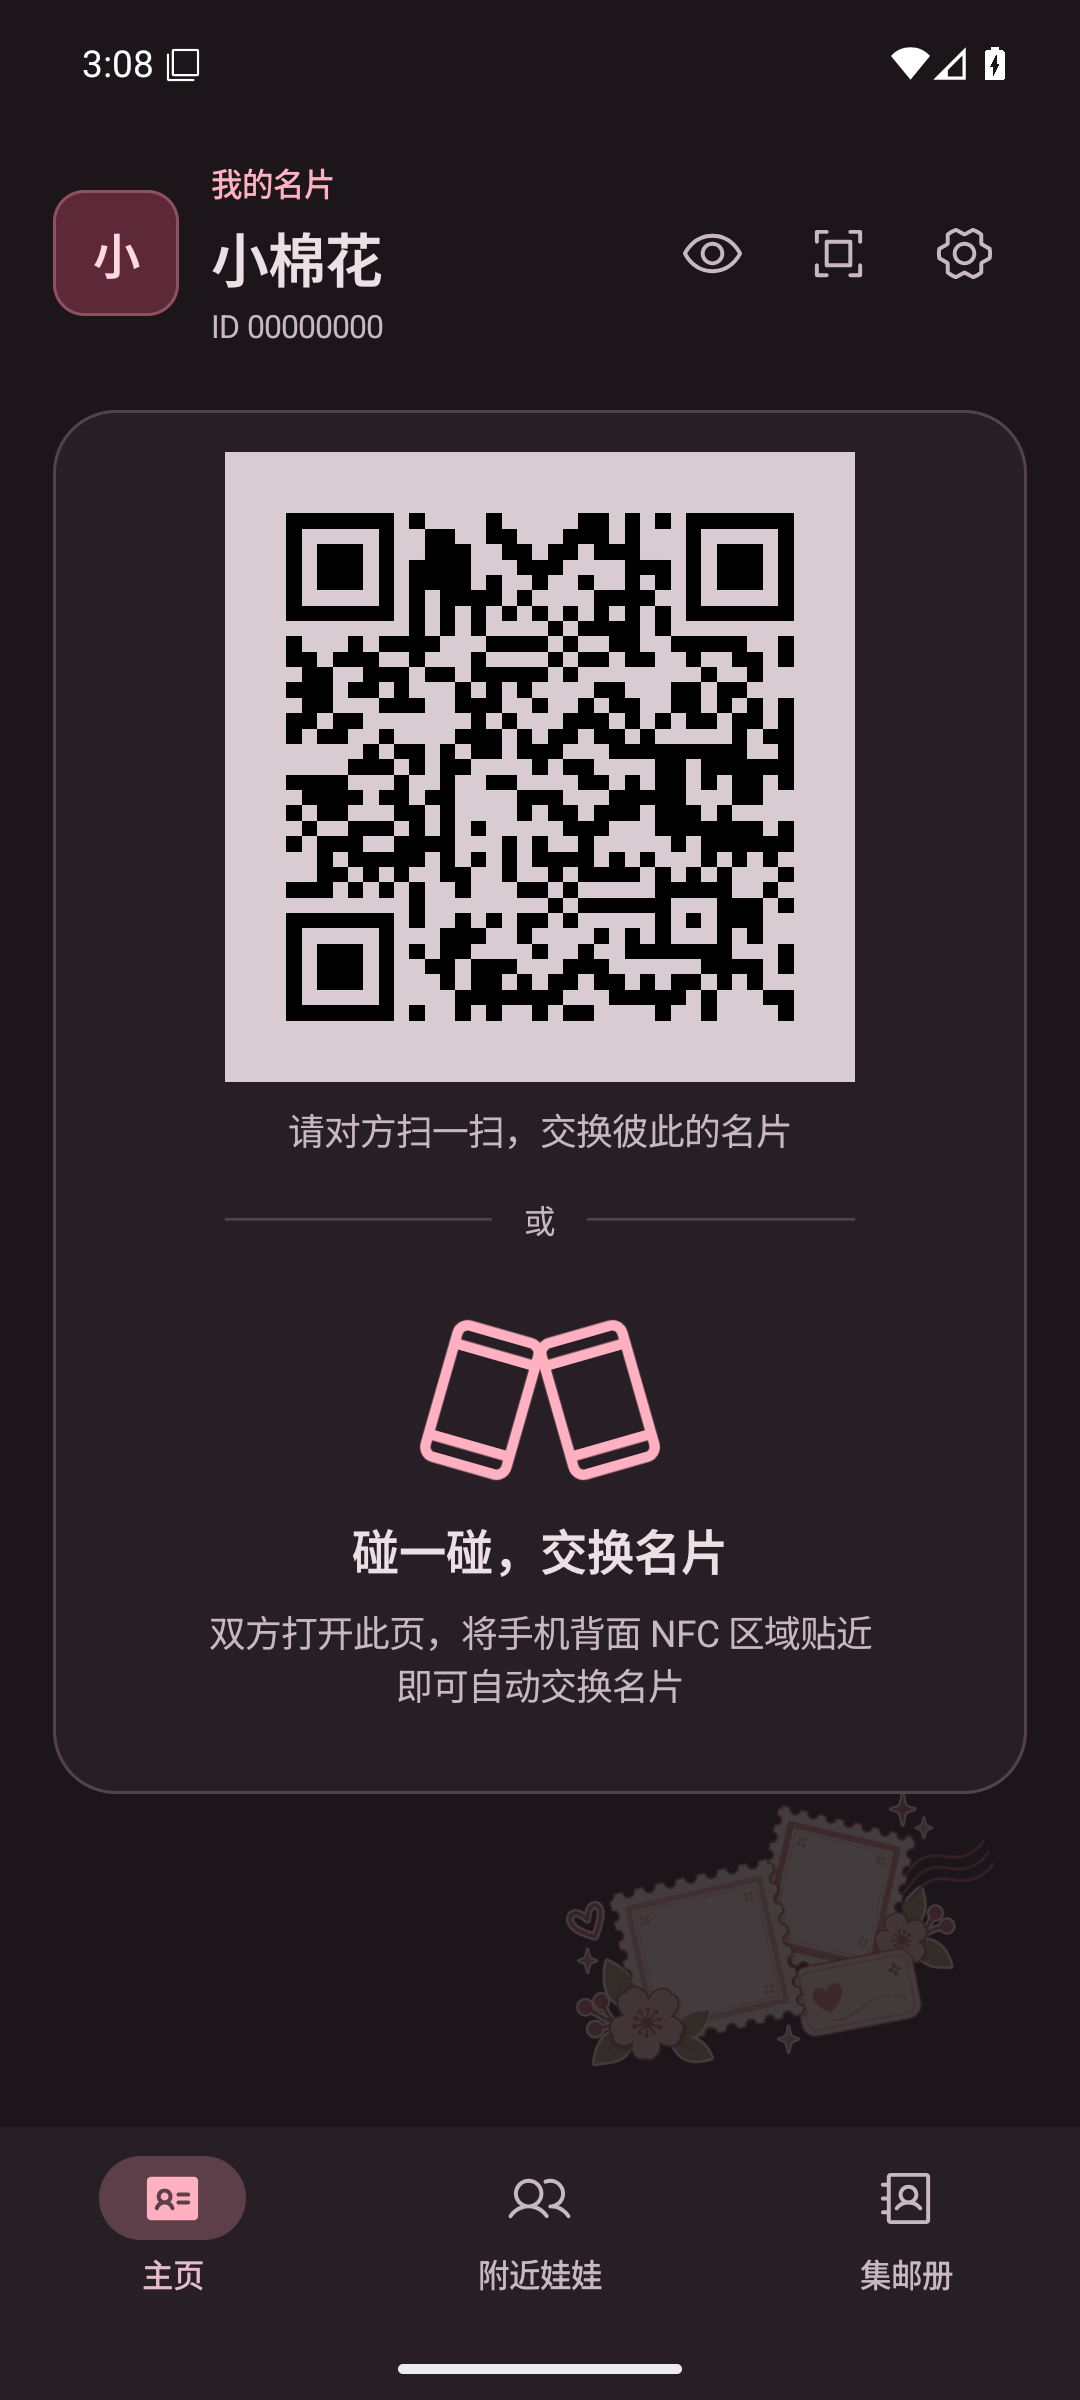
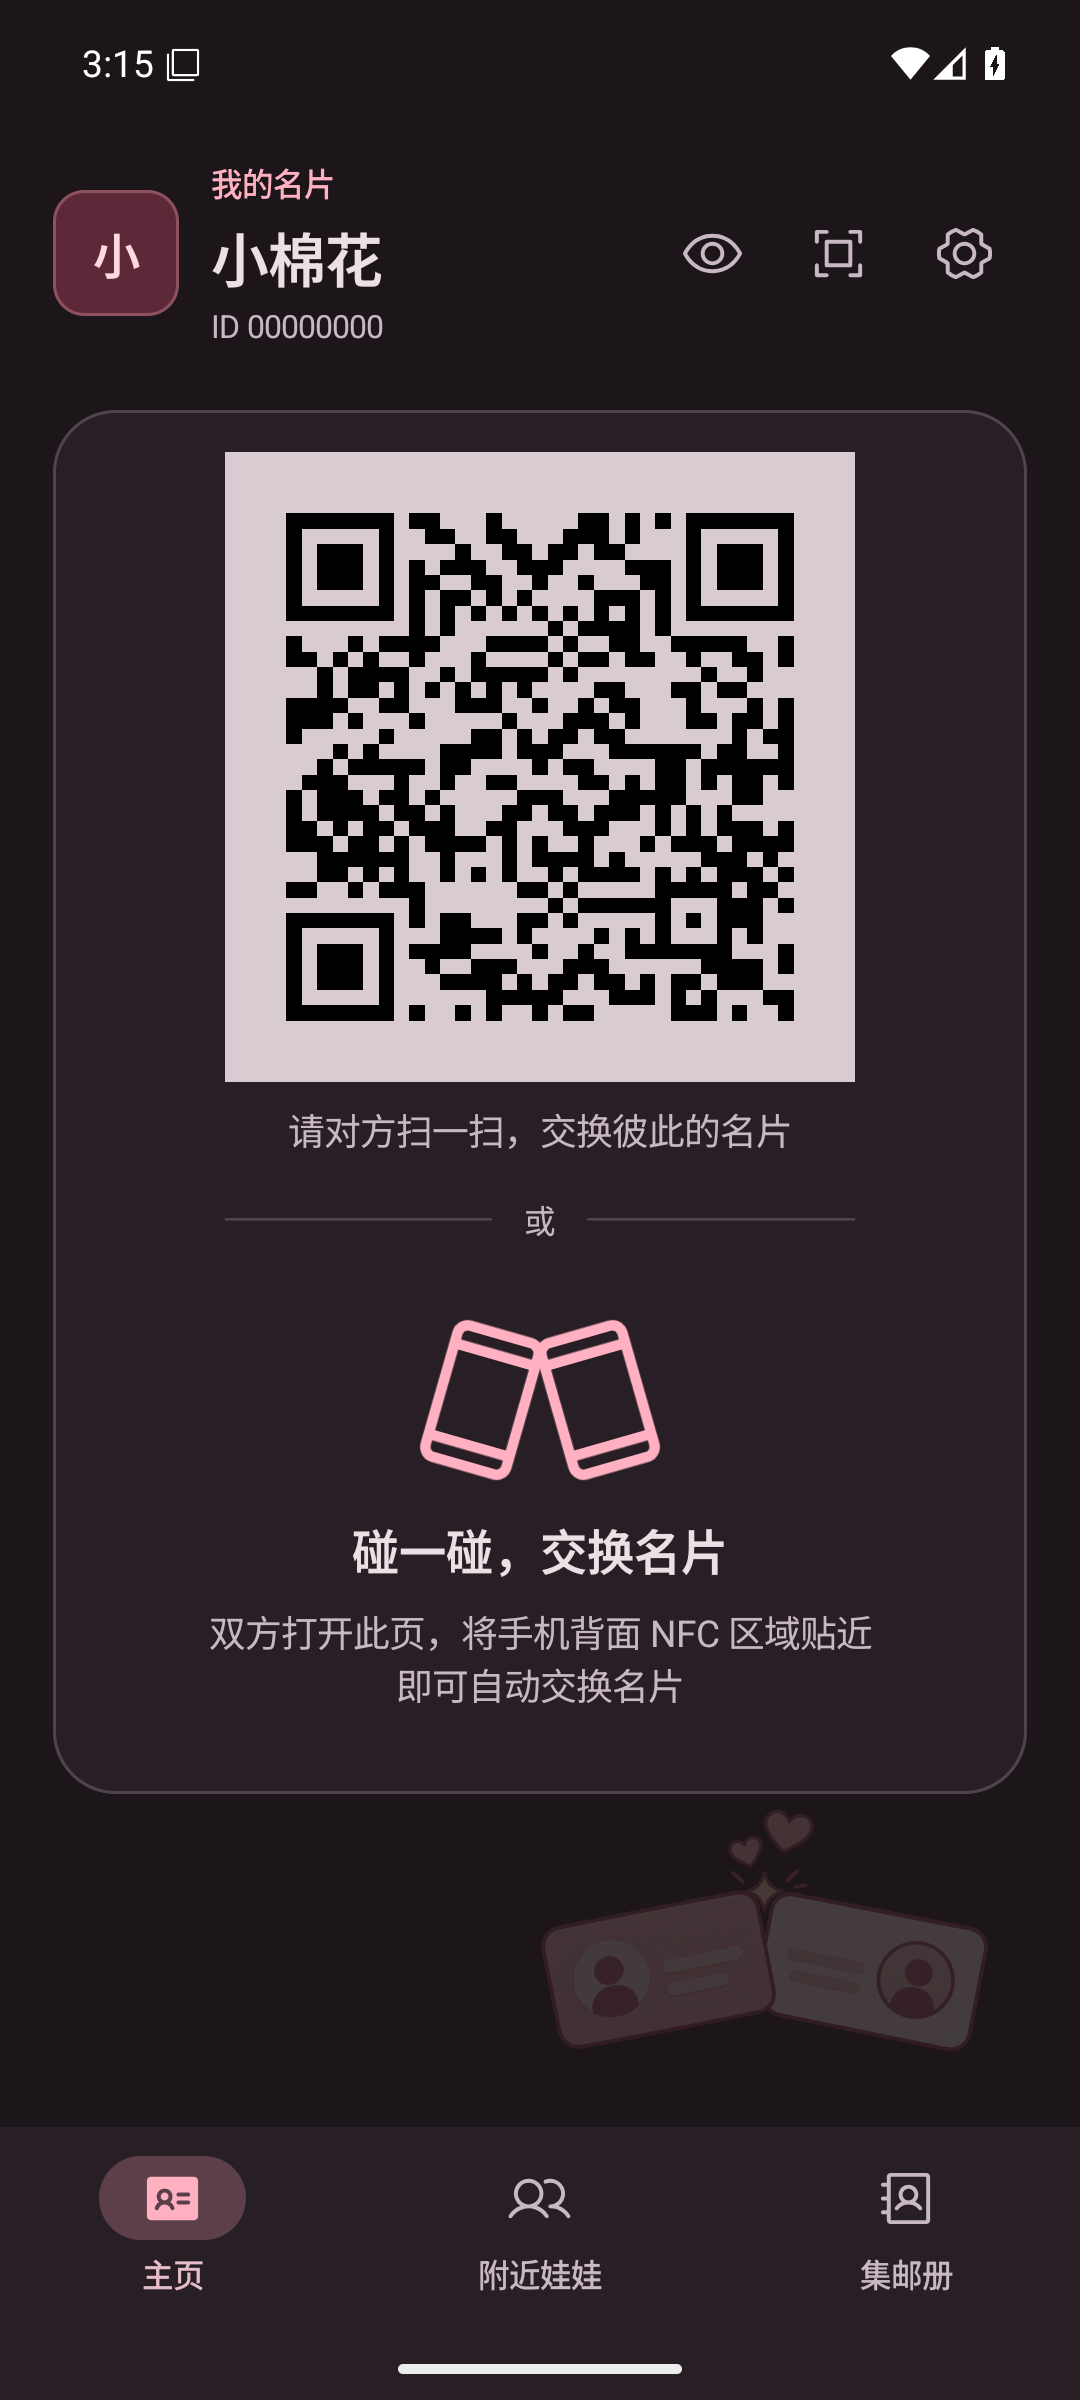
feat: 将主页背景改为双名片碰一碰插画

diff --git a/app/src/main/kotlin/app/pengwa/ui/HomeBackdropArt.kt b/app/src/main/kotlin/app/pengwa/ui/HomeBackdropArt.kt
@@ -10,12 +10,12 @@ import androidx.compose.ui.res.painterResource
 import androidx.compose.ui.unit.dp
 import app.pengwa.R
 
-/** A quiet scrapbook accent, excluded from accessibility and pointer input. */
+/** Two friend cards meeting, excluded from accessibility and pointer input. */
 @Composable
 internal fun HomeBackdropArt(modifier: Modifier = Modifier) {
     val dark = MaterialTheme.colorScheme.background.luminance() < 0.5f
     Image(
-        painter = painterResource(R.drawable.home_encounter_collage),
+        painter = painterResource(R.drawable.home_friend_cards),
         contentDescription = null,
         modifier = modifier.width(200.dp),
         alpha = if (dark) 0.18f else 0.42f,

diff --git a/docs/screenshots/home-backdrop/README.md b/docs/screenshots/home-backdrop/README.md
@@ -1,13 +1,13 @@
 # 主页面背景装饰
 
-主页面交换区新增淡莓粉色纸艺邮票、爱心名片与星点插画，呼应集邮手册主题。装饰位于二维码卡片下方的右下角留白，不参与布局、点击或无障碍朗读。二维码继续使用现有主题的不透明卡片背景。深色主题降低插画透明度；交换区高度不足 440dp 时隐藏，避免短窗口里装饰与说明争抢空间。没有新增动画。
+主页面交换区新增两张轻轻相碰的淡莓粉色名片插画，搭配爱心和中心闪光，呼应交换名片。装饰位于二维码卡片下方的右下角留白，不参与布局、点击或无障碍朗读。二维码继续使用现有主题的不透明卡片背景。深色主题降低插画透明度；交换区高度不足 440dp 时隐藏，避免短窗口里装饰与说明争抢空间。没有新增动画。
 
-资源：[`home_encounter_collage.webp`](../../../app/src/main/res/drawable-nodpi/home_encounter_collage.webp)，768 × 512，保留透明通道，约 56 KB。使用内置 imagegen 生成，再缩放、转为 WebP 用于 Android 打包。生成原图保留在本机 imagegen 输出目录。
+资源：[`home_friend_cards.webp`](../../../app/src/main/res/drawable-nodpi/home_friend_cards.webp)，768 × 512，保留透明通道，约 30 KB。使用内置 imagegen 生成，再缩放、转为 WebP 用于 Android 打包。生成原图保留在本机 imagegen 输出目录。
 
 ## 生成提示词
 
 ```text
-Use case: stylized-concept. Asset type: decorative corner illustration for PengWa, an Android app for exchanging friend cards and collecting encounter stamps. Create a refined flat paper-cut scrapbook vignette on a genuinely transparent background. Two overlapping blank scalloped postage stamps and a small rounded friend card, with a tiny outlined heart, a few four-point sparkles, and one loose curved postal cancellation line. Warm dusty blush pink, muted berry rose, cream, and a very small touch of sage, low saturation, delicate clean outlines, subtle paper grain, no heavy shadow. Compact asymmetrical diagonal arrangement rising from lower left to upper right; objects form one cohesive cluster with generous transparent margins. Decorative stationery, not an app icon. No text, no letters, no numbers, no QR code, no people, no interface, no background rectangle. Designed to remain elegant and readable at 160dp as a faint corner decoration behind a UI.
+Use case: stylized-concept. Asset type: subtle decorative illustration for the lower corner of PengWa, an Android app for exchanging friend cards. Primary request: two friend cards gently bumping together, expressing a friendly first meeting. A pair of small horizontal rounded paper business cards tilted inward toward one another; their inner upper corners touch at the center with a tiny four-point sparkle. Each card has one simple circular avatar silhouette and two short abstract embossed lines, no readable text. One card dusty blush pink, the other warm ivory with muted berry outlines. Two tiny floating hearts above the contact point and only a few delicate sparkles. Refined flat paper-cut illustration with subtle paper grain, clean rounded edges, warm friendly understated mood, low saturation. Compact cohesive wide composition, 3:2 canvas, generous truly transparent margins. Must clearly read as exactly two business cards, not smartphones or stamps. No flowers, leaves, postage stamps, postal marks, frame, background rectangle, scenery, characters, letters, numbers, logos, QR codes, heavy shadows or glow. Intended to remain clear at 200dp wide and low opacity behind an Android UI. Transparent background.
 ```
 
 ## 运行截图（PR 描述附录）
